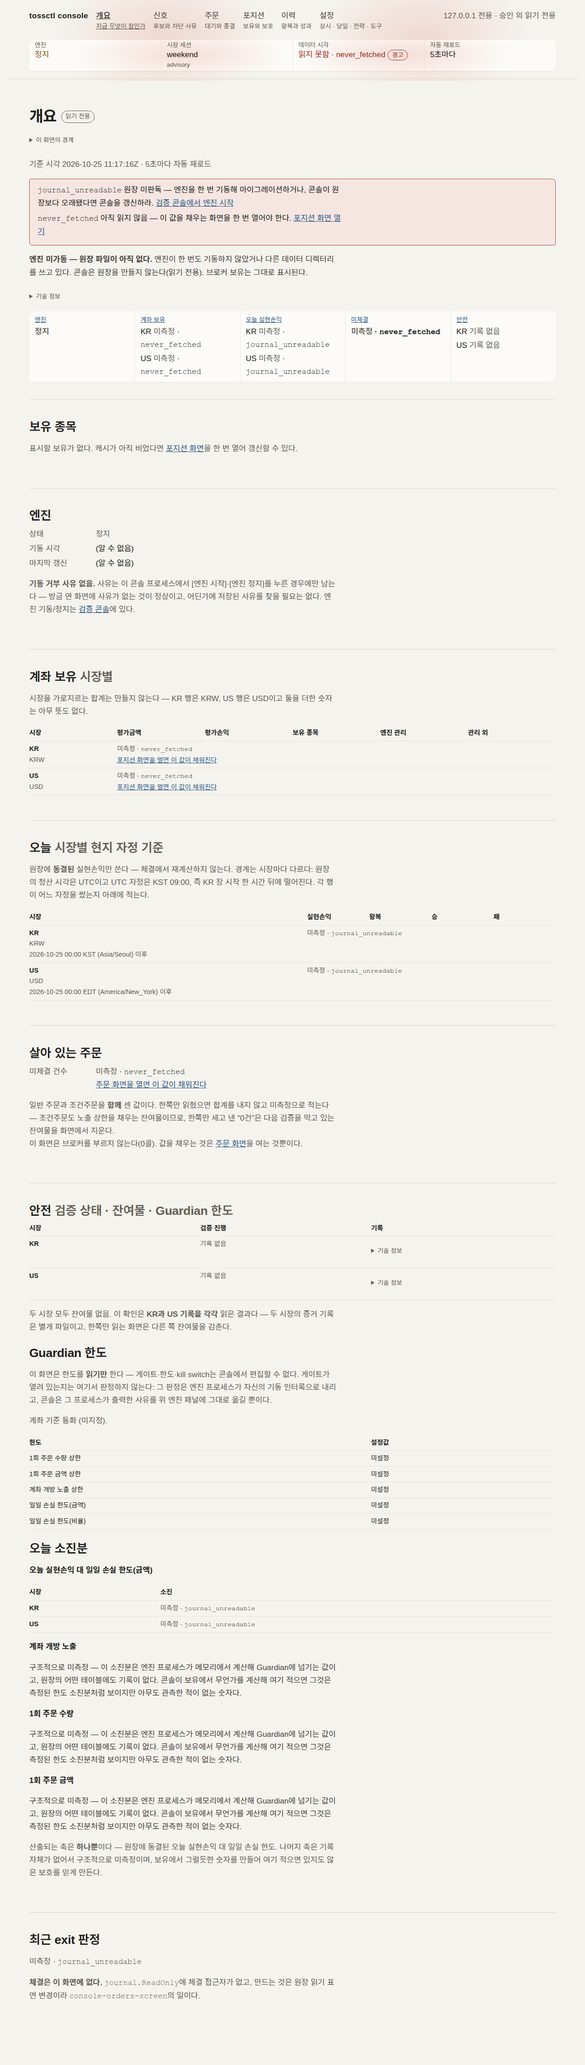
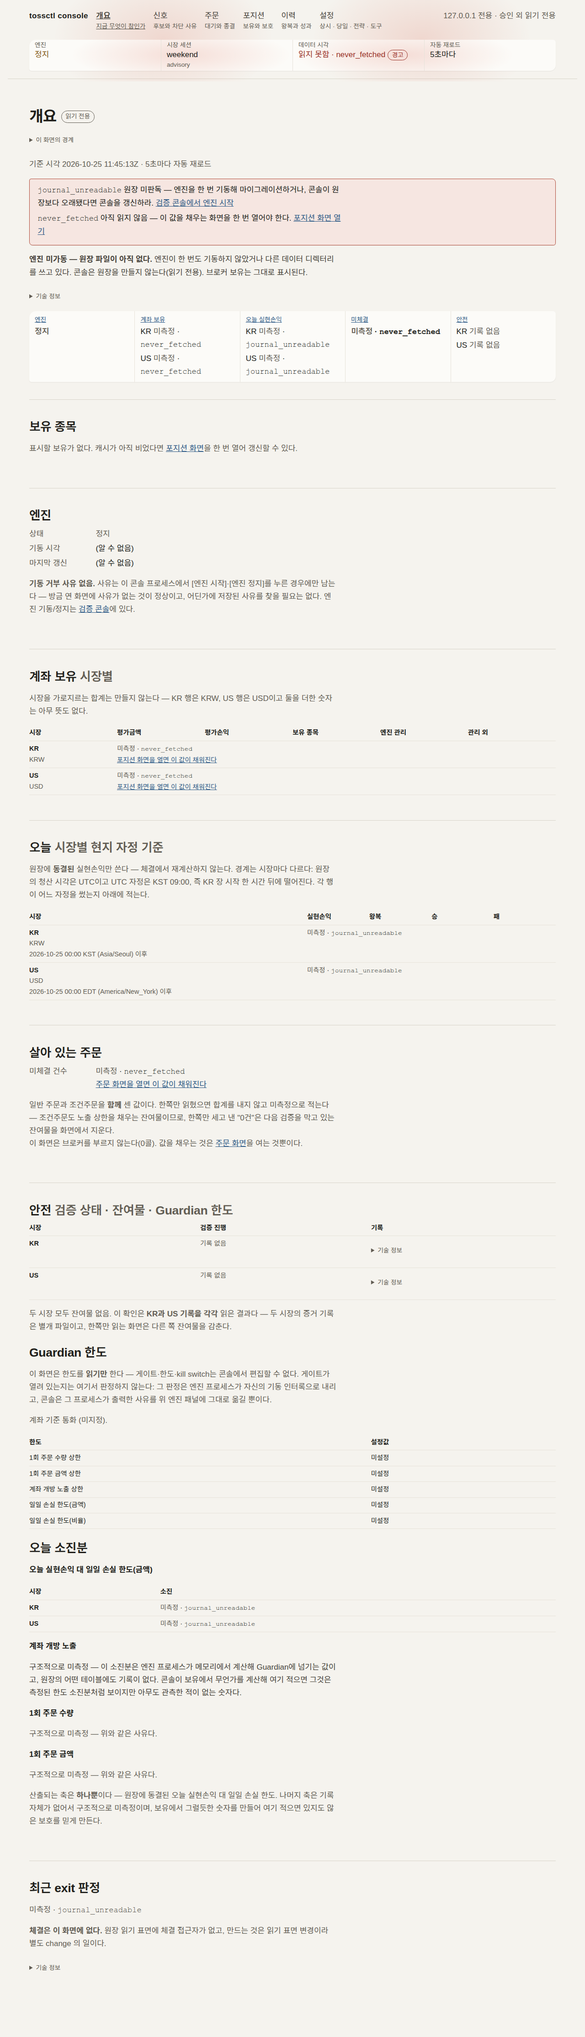
docs(a173): tasks 증거·분류표·인지 부하·리뷰·측정 표 [a173 4.x]

diff --git a/openspec/changes/a173-console-ux-common-cleanup/analysis/notice-census.md b/openspec/changes/a173-console-ux-common-cleanup/analysis/notice-census.md
@@ -1,32 +1,32 @@
 # 알림 상자 전수 분류표 (a173 3.2)
 
-기준 b27a1ea87 의 `class="notice|danger"` 자리 전부. 새 class 는 현재 HEAD 매칭 결과. 규칙: `.danger`=차단(읽기 실패·거부), `.notice`=결과가 따르는 사실(승인 대기·구버전 바이너리·저장 결과·비가역), `.aside`=상자 없는 본문(반영 시점은 `muted effect-timing`), 인라인 행 표시는 `status-pill warn`.
+기준 b27a1ea87 의 `class="notice|danger"` 자리 전부(옛 줄 번호). 새 class 는 같은 문구의 현재 HEAD 줄에서 읽은 근사 매칭(문구가 바뀐 자리는 diff 참조). 규칙: `.danger`=차단(읽기 실패·거부), `.notice`=결과가 따르는 사실(승인 대기·구버전 바이너리·저장 결과·비가역), `.aside`=상자 없는 본문(반영 시점은 `muted effect-timing`), 행 단위 표시는 `status-pill warn`/`submetric bad|warn`. 별도로 `causes` 배너(`danger cause-banner`)가 화면당 최대 1개 새로 생김.
 
 | 파일:옛줄 | 옛 | 새 | 문구 |
 |---|---|---|---|
 | templates.go:520 | notice | notice console-approval | 승인을 기다리는 검증 run이 있다. |
 | templates.go:539 | notice | aside | 지금은 KR 정규장(평일 09:00–15:30 KST) 밖이다. |
-| templates.go:554 | danger | danger |  |
+| templates.go:554 | danger | (상자 class 없음) |  |
 | templates.go:572 | notice | aside | 같은 바이너리를 같은 포트로 다시 실행한다. 초 뒤 이 페이지가 |
-| templates.go:575 | notice | danger |  |
+| templates.go:575 | notice | (상자 class 없음) |  |
 | templates.go:590 | notice | notice | 이 콘솔은 설치된 바이너리보다 오래되었다. |
 | templates.go:594 | notice | notice | 실행 중인 soak은 설치된 바이너리보다 오래되었다. |
-| templates.go:605 | notice | danger |  |
+| templates.go:605 | notice | (상자 class 없음) |  |
 | templates.go:646 | notice | notice | 실행 중인 엔진은 설치된 바이너리보다 오래되었다. |
 | templates.go:670 | notice | aside | 마지막 응답 (): |
-| templates.go:686 | danger | danger |  |
+| templates.go:686 | danger | (상자 class 없음) |  |
 | templates.go:724 | notice | aside | 게이트가 열리지 않는 이유: |
 | templates.go:727 | notice | aside | attestation 만료까지  남았다. 72시간 이내다. |
 | templates.go:728 | notice | aside | renewal 진단:  · 마지막 시도  ( 전) |
-| templates.go:737 | danger | danger |  |
+| templates.go:737 | danger | (상자 class 없음) |  |
 | templates.go:750 | notice | notice | () 단계는 새 프로세스를 기다린다 — 위의 [콘솔 재시작] 뒤 이어하기. |
 | templates.go:753 | danger | danger | 계좌에 아직 살아 있는 객체: |
-| templates.go:769 | notice | danger |  |
+| templates.go:769 | notice | (상자 class 없음) |  |
 | templates.go:773 | notice | notice | 이 프로세스는 이미 검증을 수행했다. 조건주문 존속은 등록한 프로세스가 |
 | templates.go:792 | notice | notice | 재측정 단계 — . 판정이 pass인 단계는 |
 | templates.go:797 | danger | danger | 여기서부터 실제 계좌에 요청이 나간다. 아래 목록이 이 실행이 보낼 수 있는 |
-| templates.go:814 | notice | danger |  |
-| templates.go:824 | danger | danger |  |
+| templates.go:814 | notice | (상자 class 없음) |  |
+| templates.go:824 | danger | (상자 class 없음) |  |
 | templates.go:831 | notice | notice | 중단: |
 | templates.go:833 | danger | danger | 계좌에 아직 살아 있는 객체: |
 | templates.go:837 | notice | notice | 여기서 프로세스 경계다. 조건주문이 이 프로세스보다 오래 사는지가 |
@@ -35,10 +35,10 @@
 | templates.go:865 | notice | notice | 이전 실행이 남긴 객체 건을 이 실행이 먼저 취소한다 — |
 | templates.go:872 | notice | aside | 이어할 단계가 없다 — 모든 단계에 판정이 있어 이어하기는 아무것도 |
 | templates.go:897 | notice | aside | deferred·refused 단계는 대상이 아니다. pass도 |
-| templates.go:926 | danger | danger |  |
+| templates.go:926 | danger | (상자 class 없음) |  |
 | templates_exit_quarantine.go:21 | danger | danger | 해제는 수리가 아니라 재시도다. |
-| templates_optimization.go:20 | notice | notice |  |
-| templates_optimization.go:21 | notice | notice |  |
+| templates_optimization.go:20 | notice | (상자 class 없음) |  |
+| templates_optimization.go:21 | notice | (상자 class 없음) |  |
 | templates_optimization.go:22 | danger | danger | lifecycle을 읽지 못했다: . 마지막 값을 현재값처럼 사용하지 않고 모든 변경을 닫았다. |
 | templates_optimization.go:23 | notice | aside evidence-banner | 성과 근거  · 근거 기반 추천 candidate를 만들지 않는다. |
 | templates_optimization.go:74 | danger | danger | legacy effective config를 읽지 못했다: |
@@ -64,7 +64,7 @@
 | templates_optimization.go:435 | danger | danger | runtime projection을 읽지 못했다. 두 시장 모두 신규 진입 OFF와 typed unknown |
 | templates_optimization.go:436 | notice | aside | runtime endpoint 미기동 — KR과 US의 dormant OFF/UNOBSERVED/UNWIRE |
 | templates_optimization.go:476 | danger | danger | 선택KR / KRWUS / USD |
-| templates_optimization.go:478 | danger | notice |  |
+| templates_optimization.go:478 | danger | (상자 class 없음) |  |
 | templates_orders.go:78 | notice | notice | 페이지가 잘렸다. 브로커가 다음 페이지가 있다고 답했으므로 |
 | templates_orders.go:91 | notice | aside | 주문 조회가 배선되지 않았다. 이 빌드의 콘솔에 주문 조회 seam이 |
 | templates_orders.go:94 | notice | aside | 검증 중 — 데이터 없음. . |
@@ -80,8 +80,8 @@
 | templates_overview.go:234 | danger | danger | 계좌에 아직 살아 있는 객체: |
 | templates_overview.go:239 | notice | aside | 잔여물은 다음 검증의 노출 상한을 먼저 채운다 — 그것이 남아 있는 동안 |
 | templates_overview.go:258 | danger | danger | 한도를 읽지 못했다: |
-| templates_overview.go:268 | notice | danger cause-banner |  |
-| templates_overview.go:290 | notice | danger cause-banner |  |
+| templates_overview.go:268 | notice | (상자 class 없음) |  |
+| templates_overview.go:290 | notice | (상자 class 없음) |  |
 | templates_portfolio.go:23 | notice | aside | 원장 경로가 배선되지 않았다. 이 빌드의 콘솔은 엔진 journal을 읽도록 |
 | templates_portfolio.go:26 | notice | aside | 엔진 미가동 — 원장 파일이 아직 없다. |
 | templates_portfolio.go:30 | danger | danger | 콘솔 업데이트 필요. 원장 스키마 v는 이 콘솔이 이해하는 |
@@ -92,88 +92,82 @@
 | templates_portfolio.go:55 | notice | aside | 검증 중 — 갱신 보류. . 아래 브로커 수치는 캐시된 |
 | templates_portfolio.go:65 | notice | aside | 브로커 보유를 아직 읽지 못했다. |
 | templates_portfolio.go:67 | danger | danger | 브로커 조회 실패:  — 위 표는 실패 이전의 |
-| templates_portfolio.go:104 | status-pill | status-pill {{if .ExitReference.GenerationMismatch}}bad{{else}}notice{{end}} |  |
-| templates_portfolio.go:107 | status-pill | status-pill {{if .ExitReference.GenerationMismatch}}bad{{else}}notice{{end}} |  |
-| templates_portfolio.go:112 | submetric | submetric notice | 편입 예약 · 실행 미확인 |
+| templates_portfolio.go:104 | status-pill | (상자 class 없음) |  |
+| templates_portfolio.go:107 | status-pill | (상자 class 없음) |  |
+| templates_portfolio.go:112 | submetric | submetric warn | 편입 예약 · 실행 미확인 |
 | templates_portfolio.go:136 | notice | status-pill warn | 편입 예약됨 · 아직 보호 미적용 |
 | templates_portfolio.go:137 | notice | status-pill warn | 편입 예약됨 · 실행 상태 미확인 · 아직 보호 미적용 |
-| templates_portfolio.go:152 | notice | status-pill {{if .ExitReference.GenerationMismatch}}bad{{else}}notice{{end}} |  |
+| templates_portfolio.go:152 | notice | (상자 class 없음) |  |
 | templates_portfolio.go:155 | notice | status-pill warn | 원장 기록 · 실효 미확인 |
 | templates_portfolio.go:181 | notice | aside | 관리 포지션 없음. 원장은 정상적으로 읽혔고, 엔진이 관리 중인 미청산 |
 | templates_portfolio.go:195 | notice | aside | 관리 여부 불명 보유가 있다. 엔진 원장을 읽지 못했으므로 아래 |
 | templates_portfolio.go:199 | notice | aside | 엔진 원장에 포지션이 없는 보유가 있다 — 엔진이 진입한 포지션이 |
-| templates_portfolio.go:257 | notice | status-pill {{if .ExitReference.GenerationMismatch}}bad{{else}}notice{{end}} |  |
+| templates_portfolio.go:257 | notice | (상자 class 없음) |  |
 | templates_portfolio.go:285 | notice | aside | 이 표의 한계. 성과 행(trade_outcomes)은 엔진이 관리하던 포지션이 |
 | templates_portfolio.go:298 | notice | aside | 최근 기록만 표시한다 — 창을 넘는 오래된 판정은 생략되었다. |
-| templates_position_policy.go:9 | notice | notice |  |
+| templates_position_policy.go:9 | notice | (상자 class 없음) |  |
 | templates_position_policy.go:10 | danger | danger | 불러오기 실패: |
 | templates_position_policy.go:11 | notice | aside | engine-owned PositionPolicyCommander가 배선되지 않아 조회만 가능하다. |
 | templates_position_policy.go:12 | notice | aside | 판정 격리 상태를 읽지 못했다: . 격리된 포지션이 있어도 이 화면에 표시되지 않는다. |
 | templates_position_policy.go:15 | notice | aside | exit 평가 근거를 확인할 수 없어 현재 보호선과 다음 exit 단계를 표시하지 않는다. |
-| templates_position_policy.go:31 | notice | (문구 변경/이동) | desired 알 수 없음 · |
+| templates_position_policy.go:31 | notice | (문구 변경·이동 — diff 참조) | desired 알 수 없음 · |
 | templates_position_policy.go:32 | danger | danger | desired validation 거부 · |
-| templates_position_policy.go:33 | notice | (문구 변경/이동) | effective 알 수 없음 · |
+| templates_position_policy.go:33 | notice | (문구 변경·이동 — diff 참조) | effective 알 수 없음 · |
 | templates_position_policy.go:42 | danger | danger | 지속성영구 차단일시 차단 |
 | templates_position_policy.go:43 | notice | aside | 현재 runtime projection에 active 대사 차단이 없다. |
-| templates_position_policy.go:59 | submetric | (문구 변경/이동) | 대사 차단 ·  ·  ·  ·  · 영구 차단 |
-| templates_position_policy.go:60 | submetric | (문구 변경/이동) | active exit 있음 |
-| templates_position_policy.go:61 | submetric | submetric danger | 판정 격리 v ·  ·  경과 · 유지 보호선 |
-| templates_position_policy.go:62 | submetric | submetric danger | 이 포지션은 지금 exit 판정 대상이 아니다 — 손절도 평가되지 않는다 |
+| templates_position_policy.go:59 | submetric | (상자 class 없음) | 대사 차단 ·  ·  ·  ·  · 영구 차단 |
+| templates_position_policy.go:60 | submetric | (상자 class 없음) | active exit 있음 |
+| templates_position_policy.go:61 | submetric | (상자 class 없음) | 판정 격리 v ·  ·  경과 · 유지 보호선 |
+| templates_position_policy.go:62 | submetric | (상자 class 없음) | 이 포지션은 지금 exit 판정 대상이 아니다 — 손절도 평가되지 않는다 |
 | templates_position_policy.go:74 | notice | aside | 관리할 현재 포지션 행이 없다. |
 | templates_position_policy.go:91 | danger | danger | 보호 공백 위험. active exit가 있으면 409로 거부된다. |
 | templates_position_policy.go:93 | notice | aside | 일반 정책 변경은 추가 대기나 입력 없이 이 preview 그대로 적용된다. |
-| templates_settings.go:50 | notice | aside |  |
+| templates_settings.go:50 | notice | (상자 class 없음) |  |
 | templates_settings.go:69 | notice | aside | — |
 | templates_settings.go:75 | notice | aside | — |
-| templates_settings.go:90 | notice | aside |  |
+| templates_settings.go:90 | notice | (상자 class 없음) |  |
 | templates_settings.go:91 | danger | danger | 설정 파일을 읽을 수 없다: |
 | templates_settings.go:92 | danger | danger | 현재 블록은 엔진이 거부한다. |
-| templates_settings.go:127 | notice | ? | 반영 시점 — |
-| templates_settings.go:146 | notice | aside |  |
+| templates_settings.go:127 | notice | muted effect-timing | 반영 시점 — |
+| templates_settings.go:146 | notice | (상자 class 없음) |  |
 | templates_settings.go:155 | notice | aside | 이 판정은 파일이 답하는 절에 한한다. Guardian 주입·게이트웨이 |
 | templates_settings.go:159 | notice | notice | 게이트를 켜면 시작되는 것. 다음 엔진 기동에서 대사·exit 관측· |
-| templates_settings.go:182 | notice | ? | 반영 시점 — |
-| templates_settings.go:193 | notice | aside |  |
+| templates_settings.go:182 | notice | muted effect-timing | 반영 시점 — |
+| templates_settings.go:193 | notice | (상자 class 없음) |  |
 | templates_settings.go:195 | danger | danger | 엔진 자동 시작 설정을 읽을 수 없다: |
 | templates_settings.go:213 | notice | aside | 마지막 엔진 기동 결과: |
 | templates_settings.go:234 | notice | aside | 편입 규칙은 상시 탭으로 |
-| templates_settings.go:243 | notice | aside |  |
+| templates_settings.go:243 | notice | (상자 class 없음) |  |
 | templates_settings.go:244 | danger | danger | 한도를 읽을 수 없다: |
-| templates_settings.go:259 | notice | aside |  |
-| templates_settings.go:301 | notice | aside |  |
-| templates_settings.go:342 | notice | ? | 반영 시점 — |
-| templates_settings.go:351 | notice | aside |  |
+| templates_settings.go:259 | notice | (상자 class 없음) |  |
+| templates_settings.go:301 | notice | (상자 class 없음) |  |
+| templates_settings.go:342 | notice | muted effect-timing | 반영 시점 — |
+| templates_settings.go:351 | notice | (상자 class 없음) |  |
 | templates_settings.go:352 | danger | danger | 거래 정책을 읽을 수 없다: |
-| templates_settings.go:376 | notice | ? | 반영 시점 — |
-| templates_settings.go:406 | notice | aside |  |
+| templates_settings.go:376 | notice | muted effect-timing | 반영 시점 — |
+| templates_settings.go:406 | notice | (상자 class 없음) |  |
 | templates_settings.go:408 | danger | danger | 알림 설정을 읽을 수 없다: |
-| templates_settings.go:417 | notice | aside |  |
-| templates_settings.go:483 | notice | ? | 반영 시점 — |
-| templates_settings.go:494 | notice | aside |  |
+| templates_settings.go:417 | notice | (상자 class 없음) |  |
+| templates_settings.go:483 | notice | muted effect-timing | 반영 시점 — |
+| templates_settings.go:494 | notice | (상자 class 없음) |  |
 | templates_settings.go:524 | notice | notice | 이 프로세스에서 서명 검증됨. |
 | templates_signals.go:52 | notice | aside | 시장이 하나도 없다. 저장소는 읽혔는데 평가된 시장이 |
-| templates_signals.go:56 | notice | (문구 변경/이동) | 미측정 () — |
-| templates_signals.go:65 | notice | (문구 변경/이동) | 미측정 () — |
-| templates_signals.go:86 | notice | (문구 변경/이동) | 원천 상태 미측정 () — |
+| templates_signals.go:56 | notice | (문구 변경·이동 — diff 참조) | 미측정 () — |
+| templates_signals.go:65 | notice | (문구 변경·이동 — diff 참조) | 미측정 () — |
+| templates_signals.go:86 | notice | (문구 변경·이동 — diff 참조) | 원천 상태 미측정 () — |
 | templates_signals.go:96 | notice | aside | 이 스캔은 원천을 하나도 부르지 않았다. 일정상 아직 부를 |
 | templates_signals.go:118 | notice | aside | 강등인데 빠진 원천 이름이 없다. 스캔이 결손을 보고하면서 |
 
-집계(옛→새: 자리 수)
+총 153자리. 집계(옛→새 첫 class: 자리 수)
 
-- danger → danger: 36
-- danger → danger configuration-error: 1
-- danger → notice: 1
-- notice → (문구 변경/이동): 5
-- notice → ?: 5
-- notice → aside: 66
-- notice → aside evidence-banner: 1
-- notice → danger: 4
-- notice → danger cause-banner: 2
-- notice → notice: 19
-- notice → notice console-approval: 1
-- notice → status-pill warn: 3
-- notice → status-pill {{if .ExitReference.GenerationMismatch}}bad{{else}}notice{{end}}: 2
-- status-pill → status-pill {{if .ExitReference.GenerationMismatch}}bad{{else}}notice{{end}}: 2
-- submetric → (문구 변경/이동): 2
-- submetric → submetric danger: 2
-- submetric → submetric notice: 1
+- danger → (상자 class 없음): 6
+- danger → danger: 32
+- notice → (문구 변경·이동 — diff 참조): 5
+- notice → (상자 class 없음): 22
+- notice → aside: 56
+- notice → muted: 5
+- notice → notice: 17
+- notice → status-pill: 3
+- status-pill → (상자 class 없음): 2
+- submetric → (상자 class 없음): 4
+- submetric → submetric: 1

diff --git a/openspec/changes/a173-console-ux-common-cleanup/analysis/cognitive-load-after.md b/openspec/changes/a173-console-ux-common-cleanup/analysis/cognitive-load-after.md
@@ -1,0 +1,32 @@
+# 인지 부하 — 적용 후 (a173 4.2)
+
+방법: `cognitive-load-assessment` 6항목 표. 근거는 측정(`measure-table.md`: 높이·상자 수·표시줄·가장 긴 문단 폭)과 직접 본 스크린샷 4장(`/orders`·`/dashboard` 데스크톱, `/settings/daily` 다크 모바일, 모바일 `/positions`). **나머지 화면은 구조(제목·폼·입력 수·상자 수)로 추정한 값이고 사람이 걸어 본 평가가 아니다** — Manager 의 크롬 검증(4.6)이 이 추정을 확인해야 한다.
+
+범위 표시: 이 표는 외재 부하(a173 이 줄인 것)와 내재 부하(업무 자체)를 나눈다. 외재 열 = 반복 문장·상자 남발·식별자·긴 줄·영문 제목.
+
+| 화면 | 결정 | 기억 | 새 개념 | 읽기 | 시각 | 외재 높음? | 남은 부하(담당) |
+|---|---|---|---|---|---|---|---|
+| /dashboard (개요) | 낮음 | 낮음 | 중간 | 중간 | 중간 | 아니오 | 섹션 8개 한 화면(a176 요약 재배치) |
+| /verify-console | 중간 | 낮음 | 중간 | 중간 | 중간 | 아니오 | 단계 목록(a176) |
+| /positions | 낮음 | 낮음 | 낮음 | 중간 | 중간 | 아니오 | 표 밀도는 a058 고정 |
+| /orders | 낮음 | 낮음 | 낮음 | 중간 | 낮음 | 아니오 | 원인 배너 1개+칸 코드(확인함) |
+| /history | 낮음 | 낮음 | 낮음 | 중간 | 중간 | 아니오 | — |
+| /signals | 낮음 | 낮음 | 중간 | 중간 | 중간 | 아니오 | 시장별 패널 반복 구조(a175) |
+| /report | 낮음 | 낮음 | 낮음 | 높음(원문 pre) | 낮음 | 내재 | 원문 리포트 그대로 |
+| /verify | 중간 | 중간 | 중간 | 높음(5235px) | 중간 | **예 — 잔존** | 단계 구조화는 a176 |
+| /settings (daily) | 높음(폼 7·입력 24) | 중간 | 중간 | 중간 | 중간 | 아니오(상자 11→3) | 한도·프리셋 표시는 a174 |
+| /settings/standing | 중간 | 낮음 | 중간 | 중간 | 중간 | 아니오 | 체크리스트 a174 |
+| /settings/strategy | 낮음 | 낮음 | 낮음 | 낮음 | 낮음 | 아니오 | 진입점뿐(스펙 851) |
+| /settings/tools | 중간 | 낮음 | 중간 | 중간 | 중간 | 아니오 | — |
+| /optimization (+5 카테고리) | 중간 | 낮음 | 높음(preset·lifecycle·evidence) | 중간 | 중간 | 아니오(ID·digest 접음) | 새 개념은 내재, 행렬화 a175 |
+| /position-management | 중간 | 낮음 | 중간 | 중간 | 중간 | 아니오 | a175 |
+| /strategy-runtime | 낮음 | 낮음 | 높음 | 높음(`not_observed` 25회) | 중간 | **예 — 잔존** | 행렬화 a175 |
+| /strategy-runtime/market-schedule | 낮음 | 낮음 | 중간 | 중간 | 낮음 | 아니오 | — |
+| /performance-history | 낮음 | 낮음 | 중간 | 중간 | 낮음 | 아니오 | 창 표기 a177 |
+
+판정: 외재 부하 "높음" 잔존 2건 — `/verify` 읽기(단계 목록 장문, a176 소관), `/strategy-runtime` `not_observed` 25회(a175 행렬화 소관, a173 에서 의도적으로 미착수). "높음" 0 이라는 완료 기준은 **이 둘 때문에 미달**이고, 둘 다 proposal 이 후속 Story 로 넘긴 범위다. 결정 "높음"(/settings/daily)은 폼 7개의 내재 부하다.
+
+## 우선순위 권고 (영향 순)
+1. `/verify` 단계 목록 구조화(a176).
+2. `/strategy-runtime` 시장×축 행렬로 `not_observed` 반복 제거(a175).
+3. `/settings/daily` 한도 프리셋 비교표(a174).

diff --git a/openspec/changes/a173-console-ux-common-cleanup/analysis/review-after.md b/openspec/changes/a173-console-ux-common-cleanup/analysis/review-after.md
@@ -1,0 +1,23 @@
+# 리뷰 — 적용 후 (a173 4.3·4.4)
+
+## design-critic (6차원, 구현자 자체 채점 — 스크린샷 4장 근거, 나머지 화면은 구조 추정)
+| 차원 | 점수(5) | 근거 |
+|---|---|---|
+| 위계 | 4 | h1 옆 배지·접힌 경계로 본문 첫 요소가 데이터. 원인 배너가 맨 위 단일 상자 |
+| 일관성 | 4 | 상자 3단계·배지·기술 정보가 22 화면에 같은 마크업 |
+| 가독성 | 4 | 산문 최대 폭 1152→672px. 표시줄 113→68~71px |
+| 여백·리듬 | 3 | 폭 제한으로 설정 화면 높이 +4%(5008→5237); 오른쪽 여백이 비어 보임 |
+| 접근성 | 4 | 요약 44px 목표 유지, 색만으로 전달 안 함(코드 글자 병기). 배지 대비 ink-3(4.5:1 토큰) |
+| 현대성(참고) | 3 | 신규 시각 요소 없음 — 의도적 |
+발견 → 반영: (a) `/orders` 에서 영문 원문 오류가 배너와 `orderbroker` 문단에 2번 나옴 — **미반영**(이유를 확인하지 않고 범위 밖으로 둠; a175 에서 `orderbroker` 정리 시 함께), (b) 오늘 소진분 구조 사유 3회 반복 — **반영**(`TestStructuralUnmeasuredSentenceIsSaidOnce`), (c) 본문의 `console-orders-screen` — **반영**(기술 정보).
+
+## Impeccable critique/audit
+이 환경에서 Impeccable 명령(`critique`·`audit`)을 찾지 못해 **실행하지 않았다**(스킬 목록에 없음). 대신 위 design-critic + 접근성/모션 점검으로 갈음했음을 기록한다.
+
+## avoid-ai-design detect (`dashboard`·`orders`·`settings_daily` 덤프)
+P1 6·P2 3. 전부 a172 의 다크 팔레트(SD2)·기존 `h1 span.muted` 부제(SD5)·중점 구분 메타(SD4d)이고 a173 이 새로 만든 모양은 없다. 단 `· <code>사유</code>` 형식이 SD4d 중점을 조금 늘림 — 의도(코드 grep 가능성, 스펙 1374)라 유지.
+
+## baseline-ui / fixing-accessibility / fixing-motion-performance (4.4)
+- 접근성: `<details>` 요약 44px 규칙은 기존 `summary{min-height:44px}` 적용. 배지는 텍스트라 SR 에서 h1 뒤에 읽힘. 표시줄 `title` 은 툴팁이라 키보드 사용자는 못 본다 — 긴 사유는 원인 배너에도 있어 정보 손실 없음. 모바일 칩에서 `dt::after ":"` 는 장식 의사 요소(읽기 영향 없음).
+- 모션: 새 transition/animation 0. `h1:has(+ .scope)` 는 레이아웃 규칙(애니메이션 없음). `.console-status dd small` 말줄임은 정적.
+- baseline-ui: 새 고정 px 0(전부 rem·토큰). 신규 색 0(`--warn`/`--bad`/`--ink-*` 재사용).

diff --git a/openspec/changes/a173-console-ux-common-cleanup/design.md b/openspec/changes/a173-console-ux-common-cleanup/design.md
@@ -60,3 +60,7 @@
 
 ## 5. 인지 부하 목표 (cognitive-load-assessment 6항목)
 외재 부하만 줄인다. 완료 시 22개 화면 표에서 결정·기억·읽기·시각 항목 "높음" 0. 새 개념 항목은 내재 부하(업무 자체)라 제외하고 a174~a176 이 이어받는다.
+
+
+### §4 결과 (2026-10-25 구현자 측정, 격리 콘솔 38321, 빈 fixture, 데스크톱 1280/모바일 390)
+전 화면 표: `analysis/measure-table.md`. 요약: 같은 원인 문장 `/dashboard` seam_unwired 13→1·journal_unreadable 5→1·`/orders` 4→1(시험이 6 fixture 로 상시 확인) / 떠 있는 상자 최대 11→3 / 상태 표시줄 113~203px→≤71px, 모바일 229~374px→≤82px / 본문 change ID(최적화 5~10)·절대경로(`/dashboard` 3·`/verify-console` 4) 전부 0 / 가장 긴 p 1152→672px. 미달: `not_observed` 25(→a175), 설정 높이 +4%.

diff --git a/openspec/changes/a173-console-ux-common-cleanup/review.md b/openspec/changes/a173-console-ux-common-cleanup/review.md
@@ -15,3 +15,9 @@
 
 ## validate 기록
 - 2026-10-25: 델타 없음으로 FAIL → `specs/operator-console/spec.md` ADDED 5건 추가 후 재실행(결과는 구현자가 1.1 전에 다시 확인해 여기 적는다).
+
+## 구현 후 (2026-10-25, 구현자 Sonnet 5.5)
+- `openspec validate a173-console-ux-common-cleanup --strict` 는 이 구현자가 다시 돌리지 않았다(Manager 확인 필요).
+- 기존 함수 편집 7건(번들 필요): tasks.md 3.1 목록. FLM/BTM 면제 불가 — 종결 단계에서 Opus 가 번들 작성.
+- 고정 리터럴 시험 수정 1건: tasks.md 「고정 리터럴 시험 수정 기록」.
+- gstack review 미실행(tasks 4.5 미체크).

diff --git a/openspec/changes/a173-console-ux-common-cleanup/analysis/measure-table.md b/openspec/changes/a173-console-ux-common-cleanup/analysis/measure-table.md
@@ -1,6 +1,6 @@
 | 화면 | 높이(d) 전→후 | 상자(d) | 표시줄 d | 표시줄 m | 가장 긴 p(px) | 본문 ID | 본문 경로 |
 |---|---|---|---|---|---|---|---|
-| dashboard | 4507→4518 | 5→1 | 113→68 | 374→82 | 1152→672 | 0→0 | 3→0 |
+| dashboard | 4507→4458 | 5→1 | 113→68 | 374→82 | 1152→672 | 0→0 | 3→0 |
 | verify-console | 2153→2297 | 1→0 | 113→68 | 229→80 | 1152→672 | 0→0 | 4→0 |
 | positions | 981→903 | 3→1 | 203→71 | 374→82 | 1152→672 | 0→0 | 1→0 |
 | orders | 1886→1894 | 4→1 | 203→71 | 374→82 | 1152→672 | 0→0 | 1→0 |
